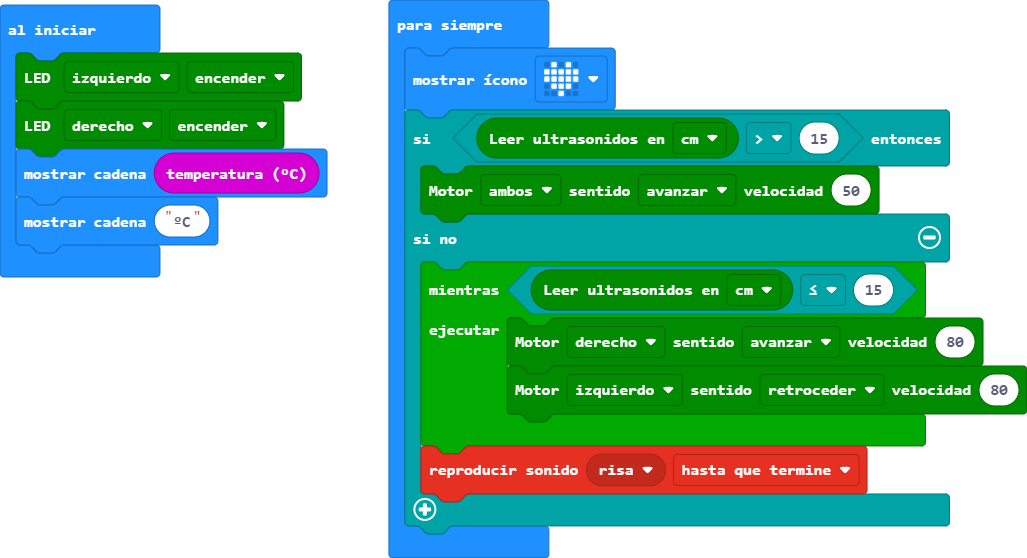
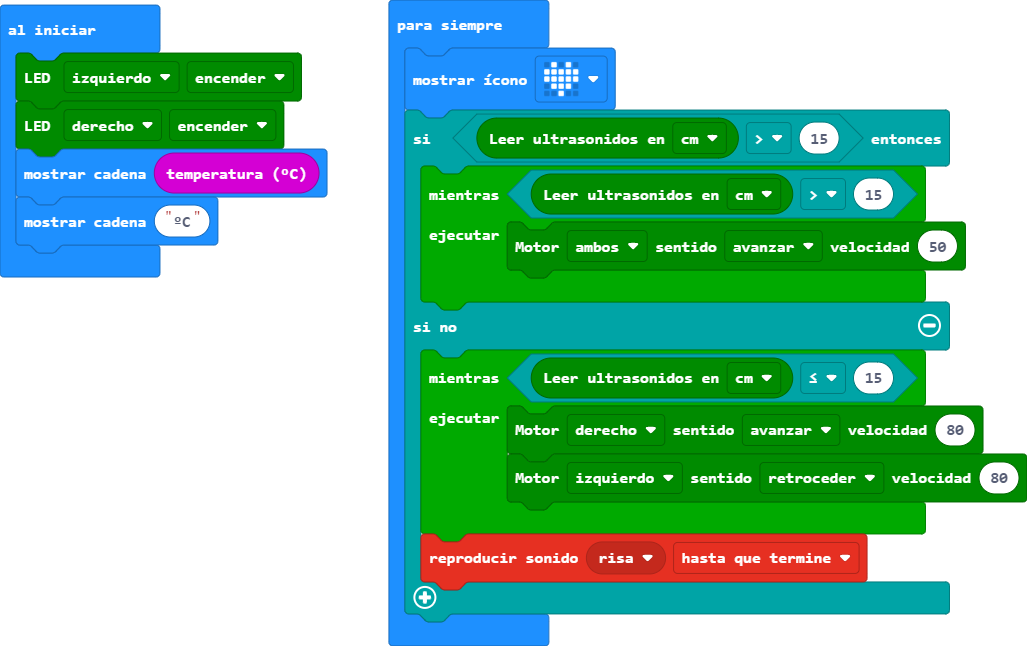
Actualizar main.blocks, main.ts

diff --git a/main.ts b/main.ts
@@ -5,7 +5,9 @@ basic.showString("ºC")
 basic.forever(function () {
     basic.showIcon(IconNames.Heart)
     if (maqueen.Ultrasonic(PingUnit.Centimeters) > 15) {
-        maqueen.motorRun(maqueen.Motors.All, maqueen.Dir.CW, 50)
+        while (maqueen.Ultrasonic(PingUnit.Centimeters) > 15) {
+            maqueen.motorRun(maqueen.Motors.All, maqueen.Dir.CW, 50)
+        }
     } else {
         while (maqueen.Ultrasonic(PingUnit.Centimeters) <= 15) {
             maqueen.motorRun(maqueen.Motors.M2, maqueen.Dir.CW, 80)
